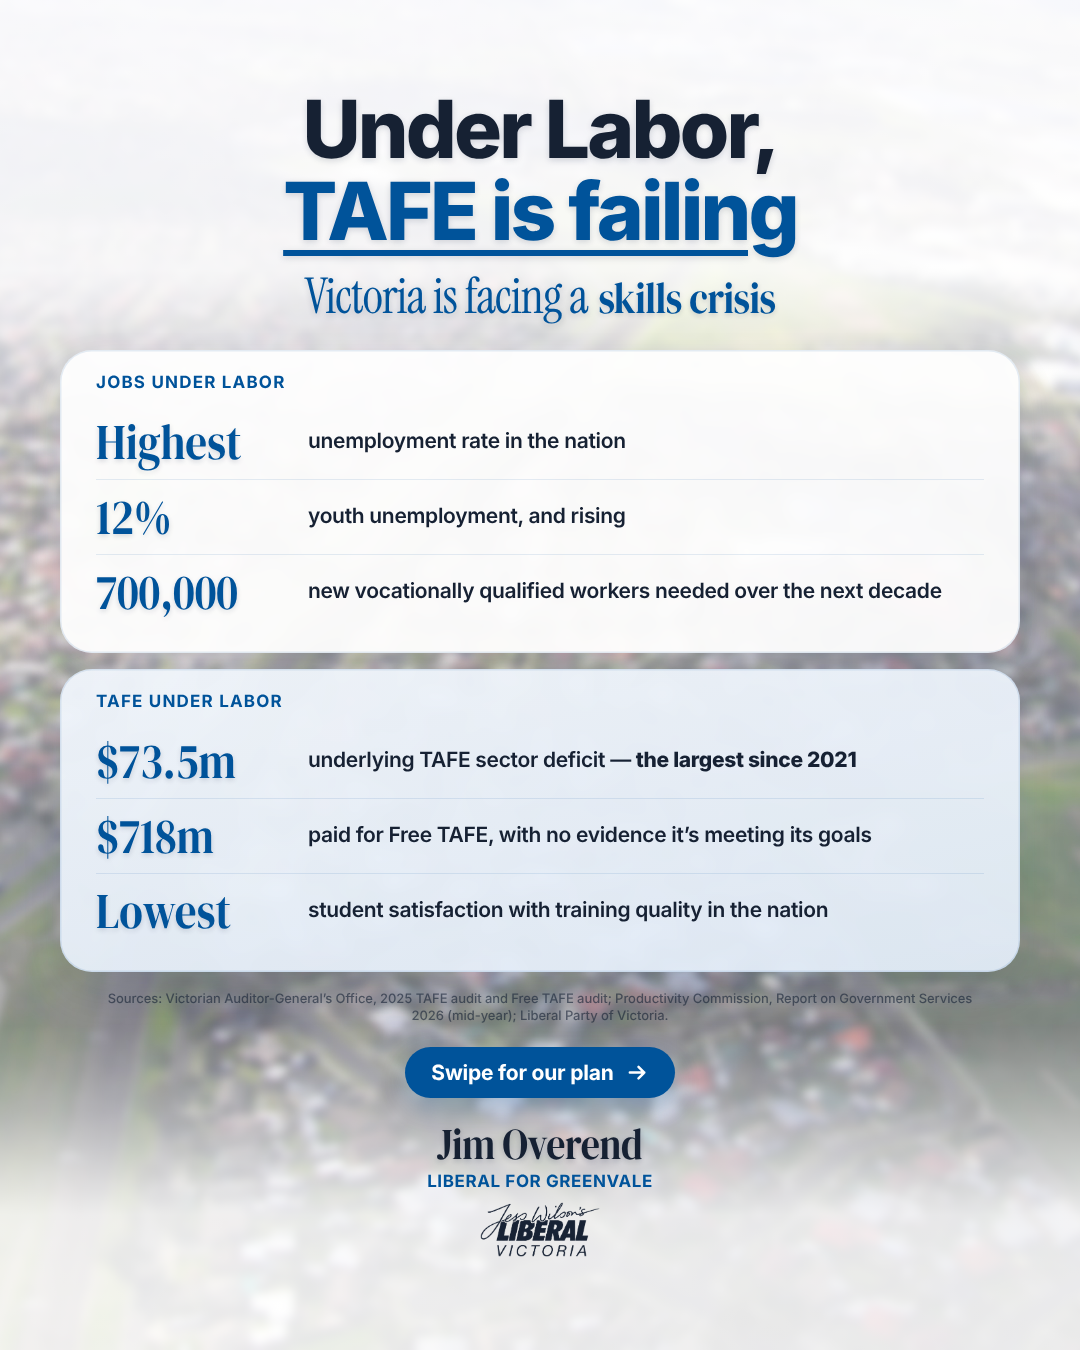
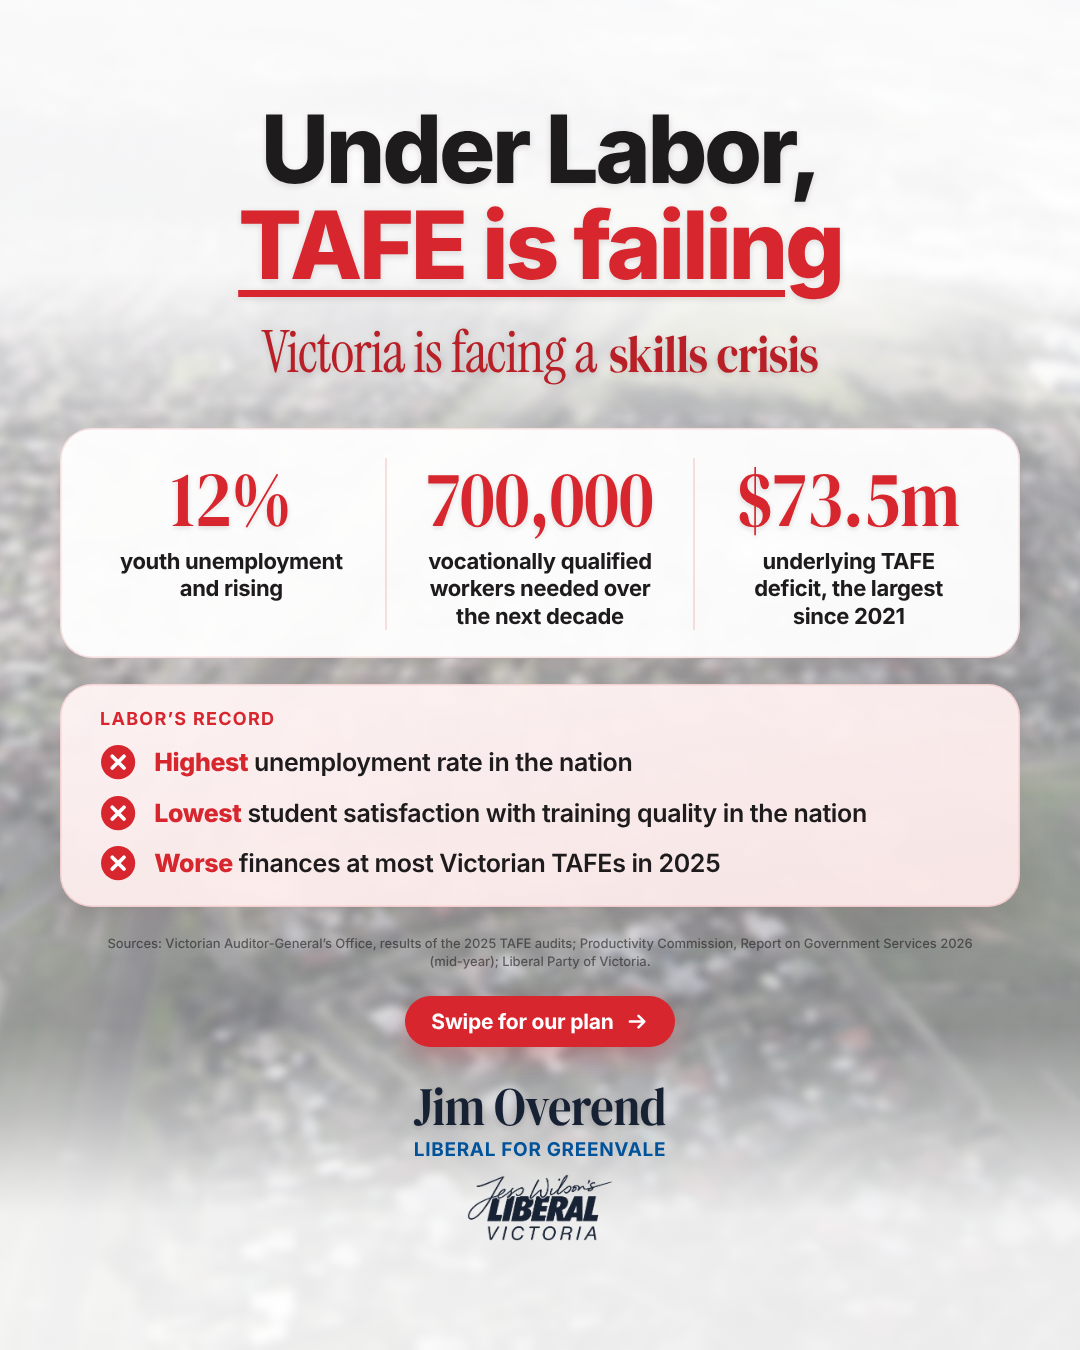
Tech colleges slide 1: Labor red, stat tiles and record list
Recolour the problem slide in Labor red and white (Liberal sign-off
stays navy/blue). Show hard numbers as stat tiles and national rankings
as a "Labor's record" red-cross list; drop the $718m Free TAFE figure in
favour of the audit's finding that finances worsened at most TAFEs.

Claude-Session: https://claude.ai/code/session_01MT6wivusBEagFnhed7SAun

Changed region(s): [[0.0306, 0.0622, 0.9472, 0.9333], [0.9472, 0.56, 1.0, 0.5911]]

diff --git a/designs/tech-colleges-north/source/labor-tafe.html b/designs/tech-colleges-north/source/labor-tafe.html
@@ -1,7 +1,8 @@
 <!doctype html>
 <html><head><meta charset="utf-8">
-<!-- Slide 1 of the Technical Colleges carousel: the problem under Labor (jobs + TAFE). Same style as slide 2
-     (tech-colleges.html): soft-blur aerial bg, white wash, pale cards, navy/blue type. -->
+<!-- Slide 1 of the Technical Colleges carousel: the problem under Labor. Same layout language as slide 2
+     (tech-colleges.html) but in Labor red and white; only the Liberal sign-off (name block + logo) stays navy/blue.
+     Hard numbers as stat tiles; national rankings as a "Labor's record" list with red crosses (mirrors slide 2's ticks). -->
 <style>
 @font-face{font-family:"Serif Bold";src:url(DMSerifDisplay-Regular.ttf)}
 @font-face{font-family:"Serif Light";src:url(InstrumentSerif-Regular.ttf)}
@@ -9,33 +10,38 @@
 @font-face{font-family:"Inter";font-weight:600;src:url(Inter-SemiBold.otf)}
 @font-face{font-family:"Inter";font-weight:700;src:url(Inter-Bold.otf)}
 @font-face{font-family:"Inter";font-weight:800;src:url(Inter-ExtraBold.otf)}
-:root{ --navy:#162133; --blue:#00539a; --shadow:0 2px 6px rgba(20,32,60,.16); }
+:root{ --ink:#1e1b1c; --red:#d7262e; --red-deep:#b81f26; --navy:#162133; --blue:#00539a; --shadow:0 2px 6px rgba(40,20,20,.14); }
 *{margin:0;padding:0;box-sizing:border-box}
 html,body{width:1080px;height:1350px;overflow:hidden;background:#fff}
 #stage{position:relative;width:1080px;height:1350px;overflow:hidden;background:#fff}
 .abs{position:absolute}
-#bg{inset:0;width:1080px;height:1350px;object-fit:cover}
+#bg{inset:0;width:1080px;height:1350px;object-fit:cover;filter:grayscale(.55) contrast(.95)}
 #wash{inset:0;background:linear-gradient(180deg,rgba(255,255,255,var(--w-top)) 0%,rgba(255,255,255,var(--w-top)) 20%,rgba(255,255,255,var(--w-mid)) 34%,rgba(255,255,255,var(--w-mid)) 76%,rgba(255,255,255,var(--w-bot)) 90%)}
 #col{left:60px;right:60px;top:var(--top);display:flex;flex-direction:column;align-items:center;text-align:center}
-h1{font-family:"Inter";font-weight:800;color:var(--navy);letter-spacing:-.035em;line-height:1.02;white-space:nowrap;text-shadow:var(--shadow)}
-h1 .acc{color:var(--blue)}
-h1 .ul{text-decoration:underline;text-decoration-color:var(--blue);text-decoration-thickness:.07em;text-underline-offset:.12em}
-.serif{color:var(--blue);line-height:1.1;letter-spacing:-.015em;text-shadow:var(--shadow)}
+h1{font-family:"Inter";font-weight:800;color:var(--ink);letter-spacing:-.035em;line-height:1.02;white-space:nowrap;text-shadow:var(--shadow)}
+h1 .acc{color:var(--red)}
+h1 .ul{text-decoration:underline;text-decoration-color:var(--red);text-decoration-thickness:.07em;text-underline-offset:.12em}
+.serif{color:var(--red-deep);line-height:1.1;letter-spacing:-.015em;text-shadow:var(--shadow)}
 .serif .lt{font-family:"Serif Light";font-size:1.12em;letter-spacing:-.02em}
 .serif .bd{font-family:"Serif Bold";display:inline-block;transform:scaleX(.86)}
-.card{width:100%;border-radius:32px;background:rgba(255,255,255,.93);backdrop-filter:blur(6px);
-  box-shadow:inset 0 0 0 1.5px rgba(0,83,154,.10),0 18px 40px rgba(20,40,80,.10);padding:24px 36px 24px;text-align:left}
-.card.pale{background:linear-gradient(170deg,rgba(241,246,252,.94),rgba(226,236,248,.94))}
-.card .lab{font-family:"Inter";font-weight:700;color:var(--blue);letter-spacing:.07em;text-transform:uppercase;line-height:1}
-.rows{margin-top:14px;display:flex;flex-direction:column}
-.row{display:flex;gap:22px;align-items:center;padding:12px 0}
-.row+.row{border-top:1.5px solid rgba(0,83,154,.10)}
-.row .big{flex:none;font-family:"Serif Bold";color:var(--blue);line-height:1;white-space:nowrap;display:inline-block;transform:scaleX(.86);transform-origin:0 50%;text-shadow:var(--shadow)}
-.row .t{font-family:"Inter";font-weight:600;color:var(--navy);letter-spacing:-.015em;line-height:1.28}
-.row .t b{font-weight:800}
-#src{font-family:"Inter";font-weight:500;color:rgba(22,33,51,.6);letter-spacing:-.005em;line-height:1.35;max-width:900px}
-#swipe{display:inline-flex;align-items:center;gap:12px;padding:13px 26px;border-radius:999px;background:var(--blue);color:#fff;
-  font-family:"Inter";font-weight:700;letter-spacing:-.01em;box-shadow:0 10px 24px rgba(0,83,154,.25)}
+.card{width:100%;border-radius:32px;background:rgba(255,255,255,.94);backdrop-filter:blur(6px);
+  box-shadow:inset 0 0 0 1.5px rgba(215,38,46,.14),0 18px 40px rgba(60,20,20,.10)}
+/* stat tiles */
+#stats{display:flex;padding:30px 18px 28px}
+.st{flex:1;padding:0 14px}
+.st+.st{border-left:2px solid rgba(215,38,46,.14)}
+.st .n{font-family:"Serif Bold";color:var(--red);line-height:1;display:inline-block;transform:scaleX(.86);white-space:nowrap;text-shadow:var(--shadow)}
+.st .l{margin-top:10px;font-family:"Inter";font-weight:700;color:var(--ink);letter-spacing:-.015em;line-height:1.25}
+/* Labor's record: red cross list */
+#record{padding:26px 40px 26px;text-align:left;background:linear-gradient(170deg,rgba(255,244,244,.95),rgba(252,232,232,.95))}
+#record .lab{font-family:"Inter";font-weight:700;color:var(--red);letter-spacing:.07em;text-transform:uppercase;line-height:1}
+#record .rows{margin-top:16px;display:flex;flex-direction:column;gap:14px}
+.x{display:flex;gap:18px;align-items:center;font-family:"Inter";font-weight:600;color:var(--ink);letter-spacing:-.015em;line-height:1.28}
+.x b{font-weight:800;color:var(--red)}
+.x svg{flex:none}
+#src{font-family:"Inter";font-weight:500;color:rgba(30,27,28,.6);letter-spacing:-.005em;line-height:1.35;max-width:900px}
+#swipe{display:inline-flex;align-items:center;gap:12px;padding:13px 26px;border-radius:999px;background:var(--red);color:#fff;
+  font-family:"Inter";font-weight:700;letter-spacing:-.01em;box-shadow:0 10px 24px rgba(215,38,46,.25)}
 #swipe svg{width:1.1em;height:1.1em}
 #foot{display:flex;flex-direction:column;align-items:center}
 #name .n{font-family:"Serif Bold";color:var(--navy);line-height:1;letter-spacing:-.01em;white-space:nowrap;text-shadow:var(--shadow);display:inline-block;transform:scaleX(.86)}
@@ -47,7 +53,8 @@ h1 .ul{text-decoration:underline;text-decoration-color:var(--blue);text-decorati
   <div id="col" class="abs">
     <h1 id="h"></h1>
     <div id="lead" class="serif"></div>
-    <div id="cards"></div>
+    <div id="stats" class="card"></div>
+    <div id="record" class="card"><div class="lab"></div><div class="rows"></div></div>
     <div id="src"></div>
     <div id="swipe"><span></span><svg viewBox="0 0 24 24" fill="none" stroke="#fff" stroke-width="2.6" stroke-linecap="round" stroke-linejoin="round"><path d="M4 12h15M13 6l6 6-6 6"/></svg></div>
     <div id="foot"><div id="name"><div class="n"></div><div class="r"></div></div><img id="logo" src="logo-navy.png" alt="Jess Wilson's Liberal Victoria"></div>
@@ -56,39 +63,33 @@ h1 .ul{text-decoration:underline;text-decoration-color:var(--blue);text-decorati
 <script>
 const P = Object.assign({
   // Defaults = the published layout. Override any key via ?p={"key":value} (see render.js).
-  wash:[.88,.22,.86], top:88,
-  head:'Under Labor,<br><span class="acc ul">TAFE is failing</span>', hSize:80,
-  lead:'<span class="lt">Victoria is facing a</span> <span class="bd">skills crisis</span>', leadSize:44,
-  // cards: [label, pale?, [[big, text], ...]]
-  cards:[
-    ['Jobs under Labor',0,[
-      ['Highest','unemployment rate in the nation'],
-      ['12%','youth unemployment, and rising'],
-      ['700,000','new vocationally qualified workers needed over the next decade'],
-    ]],
-    ['TAFE under Labor',1,[
-      ['$73.5m','underlying TAFE sector deficit — <b>the largest since 2021</b>'],
-      ['$718m','paid for Free TAFE, with no evidence it’s meeting its goals'],
-      ['Lowest','student satisfaction with training quality in the nation'],
-    ]],
-  ],
-  labSize:17, bigSize:50, bigW:190, textSize:21,
-  src:'Sources: Victorian Auditor-General’s Office, 2025 TAFE audit and Free TAFE audit; Productivity Commission, Report on Government Services 2026 (mid-year); Liberal Party of Victoria.', srcSize:13,
+  wash:[.90,.30,.88], top:102,
+  head:'Under Labor,<br><span class="acc ul">TAFE is failing</span>', hSize:94,
+  lead:'<span class="lt">Victoria is facing a</span> <span class="bd">skills crisis</span>', leadSize:52,
+  stats:[['12%','youth unemployment<br>and rising'],['700,000','vocationally qualified<br>workers needed over<br>the next decade'],['$73.5m','underlying TAFE<br>deficit, the largest<br>since 2021']],
+  statN:80, statL:22,
+  record:{lab:'Labor’s record', labSize:18, size:25, rows:[
+    '<b>Highest</b> unemployment rate in the nation',
+    '<b>Lowest</b> student satisfaction with training quality in the nation',
+    '<b>Worse</b> finances at most Victorian TAFEs in 2025',
+  ]},
+  src:'Sources: Victorian Auditor-General’s Office, results of the 2025 TAFE audits; Productivity Commission, Report on Government Services 2026 (mid-year); Liberal Party of Victoria.', srcSize:13,
   swipe:'Swipe for our plan', swipeSize:21,
-  gaps:[18,26,16,18,22,24],               // after head, lead, card1(=between cards), cards, src, swipe
-  name:{size:44, text:'Jim Overend', role:'Liberal for Greenvale', roleSize:17}, logoW:120, footGap:10
+  gaps:[26,44,26,28,26,32],               // after head, lead, stats, record, src, swipe
+  name:{size:54, text:'Jim Overend', role:'Liberal for Greenvale', roleSize:19}, logoW:146, footGap:12
 }, JSON.parse(new URLSearchParams(location.search).get('p')||'{}'));
 const $=id=>document.getElementById(id), px=v=>v+'px';
 const W=$('wash').style; W.setProperty('--w-top',P.wash[0]); W.setProperty('--w-mid',P.wash[1]); W.setProperty('--w-bot',P.wash[2]);
 $('col').style.setProperty('--top',px(P.top));
 $('h').innerHTML=P.head; $('h').style.fontSize=px(P.hSize);
 $('lead').innerHTML=P.lead; $('lead').style.fontSize=px(P.leadSize);
-$('cards').style.cssText=`width:100%;display:flex;flex-direction:column;gap:${P.gaps[2]}px`;
-$('cards').innerHTML=P.cards.map(([lab,pale,rows])=>`<div class="card${pale?' pale':''}"><div class="lab" style="font-size:${P.labSize}px">${lab}</div><div class="rows">
-  ${rows.map(([b,t])=>`<div class="row"><div style="flex:none;width:${P.bigW}px"><span class="big" style="font-size:${P.bigSize}px">${b}</span></div><div class="t" style="font-size:${P.textSize}px">${t}</div></div>`).join('')}</div></div>`).join('');
+$('stats').innerHTML=P.stats.map(([n,l])=>`<div class="st"><div class="n" style="font-size:${P.statN}px">${n}</div><div class="l" style="font-size:${P.statL}px">${l}</div></div>`).join('');
+const R=P.record, cross=`<svg width="${R.size*1.45}" height="${R.size*1.45}" viewBox="0 0 34 34"><circle cx="17" cy="17" r="16" fill="#d7262e"/><path d="M11.5 11.5l11 11M22.5 11.5l-11 11" stroke="#fff" stroke-width="3.6" stroke-linecap="round"/></svg>`;
+$('record').querySelector('.lab').innerHTML=R.lab; $('record').querySelector('.lab').style.fontSize=px(R.labSize);
+$('record').querySelector('.rows').innerHTML=R.rows.map(t=>`<div class="x" style="font-size:${R.size}px">${cross}<span>${t}</span></div>`).join('');
 $('src').innerHTML=P.src; $('src').style.fontSize=px(P.srcSize);
 $('swipe').querySelector('span').innerHTML=P.swipe; $('swipe').style.fontSize=px(P.swipeSize);
-[['h',0],['lead',1],['cards',3],['src',4],['swipe',5]].forEach(([id,i])=>$(id).style.marginBottom=px(P.gaps[i]));
+[['h',0],['lead',1],['stats',2],['record',3],['src',4],['swipe',5]].forEach(([id,i])=>$(id).style.marginBottom=px(P.gaps[i]));
 $('name').querySelector('.n').innerHTML=P.name.text; $('name').querySelector('.n').style.fontSize=px(P.name.size);
 $('name').querySelector('.r').innerHTML=P.name.role; $('name').querySelector('.r').style.fontSize=px(P.name.roleSize);
 $('logo').style.width=px(P.logoW); $('foot').style.gap=px(P.footGap);

diff --git a/designs/tech-colleges-north/README.md b/designs/tech-colleges-north/README.md
@@ -4,11 +4,14 @@
 condensed serif, pale cards, Jim Overend name block + navy Liberal Victoria logo) over the soft-blur aerial
 background from `../policy-background/`.
 
-1. `tech-colleges-1-labor.png` — **"Under Labor, TAFE is failing"**: jobs card (highest unemployment
-   rate in the nation; 12% youth unemployment and rising; 700,000 vocationally qualified workers needed over
-   the next decade) and TAFE card ($73.5m underlying sector deficit, largest since 2021; $718m paid for Free
-   TAFE with no evidence it's meeting its goals; lowest student satisfaction with training quality in the
-   nation), a source line and a "Swipe for our plan" cue. Source: `source/labor-tafe.html`.
+1. `tech-colleges-1-labor.png` — **"Under Labor, TAFE is failing"**, in **Labor red and white** (only the
+   Liberal sign-off stays navy/blue; background photo partly desaturated). Three stat tiles (12% youth
+   unemployment and rising; 700,000 vocationally qualified workers needed over the next decade; $73.5m
+   underlying TAFE deficit, largest since 2021) and a "Labor's record" list with red crosses, mirroring the
+   plan slide's ticks (highest unemployment rate in the nation; lowest student satisfaction with training
+   quality in the nation; worse finances at most Victorian TAFEs in 2025), sources line, red "Swipe for our
+   plan" cue. The $718m Free TAFE figure was dropped (it read as Labor investment). Source:
+   `source/labor-tafe.html`.
 2. `tech-colleges-2-plan.png` — **"Bringing back Technical Colleges"**: 10 new colleges and $222m over
    eight years offset by budget savings; six ticks (plumbing/electrical/carpentry, healthcare & hospitality,
    full-time with dedicated teachers, real vocational qualifications, partnered with local industry,
@@ -20,7 +23,7 @@ background from `../policy-background/`.
 |---|---|
 | Highest unemployment rate in the nation; youth unemployment rising to 12%; 700,000 VET-qualified workers needed over the next decade | Liberal release, 11 Oct 2026 (Technical Colleges). No unemployment *number* is shown: the latest ABS figure couldn't be confirmed (Property Council cited Victoria at 5.1%, highest state, for July 2026). Add the current ABS rate if wanted. |
 | $73.5m adjusted net deficit without advanced 2026 funding and capital grants, largest since 2021 ("underlying" on the slide) | Victorian Auditor-General, 2025 TAFE audit results (via Liberal release) |
-| $718m paid to TAFEs for Free TAFE tuition (to Aug 2025); department could not demonstrate Free TAFE is meeting objectives | Victorian Auditor-General, Free TAFE audit (via Liberal release) |
+| Financial performance deteriorated at most TAFEs in 2025 ("worse finances at most Victorian TAFEs") | Victorian Auditor-General, 2025 TAFE audit results (via Liberal release) |
 | Lowest student satisfaction with quality of training in the nation | Productivity Commission, Report on Government Services 2026 mid-year (via Liberal release) |
 | 10 colleges; $222m over eight years offset by savings; trades, healthcare, hospitality; full-time with dedicated teachers; qualifications (vs Labor's Tech Schools); industry partners; apprenticeship pathways; Wilson quote | Liberal release, 11 Oct 2026 |
 
